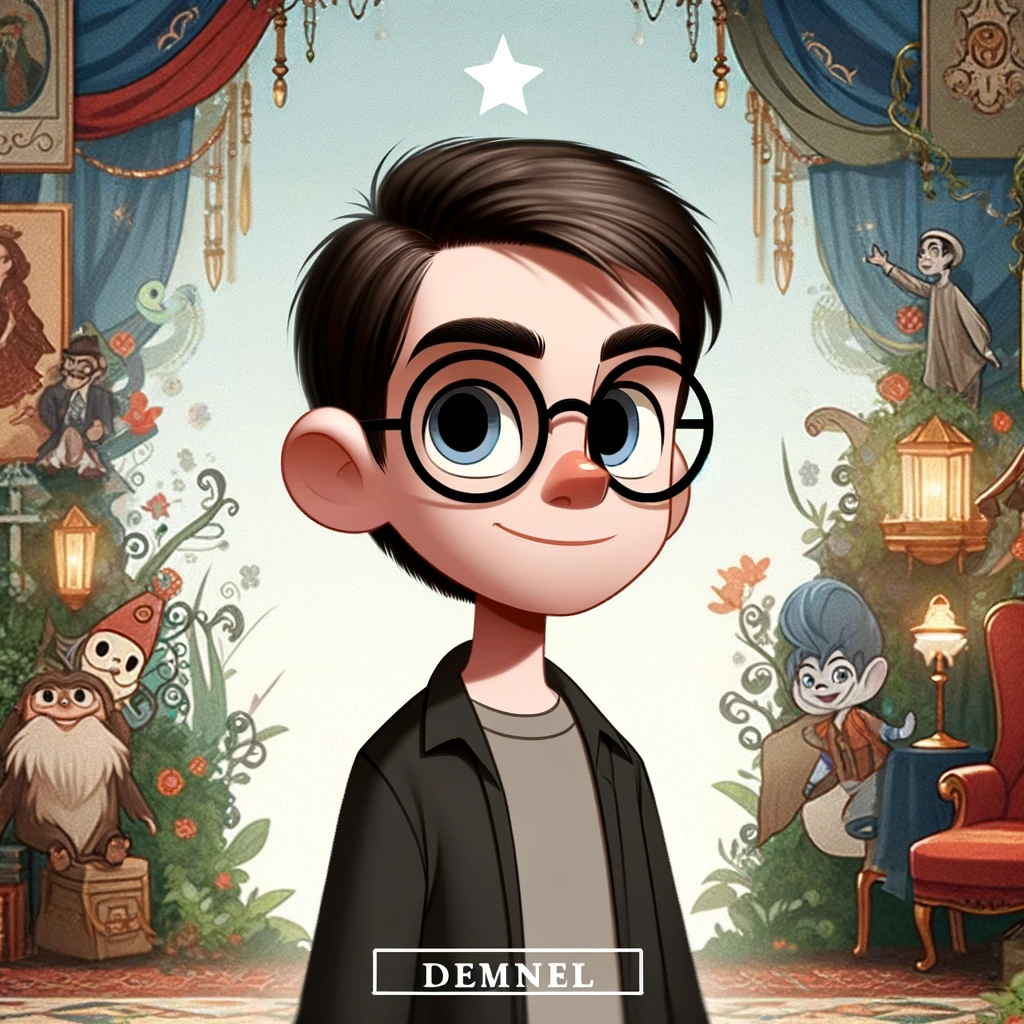
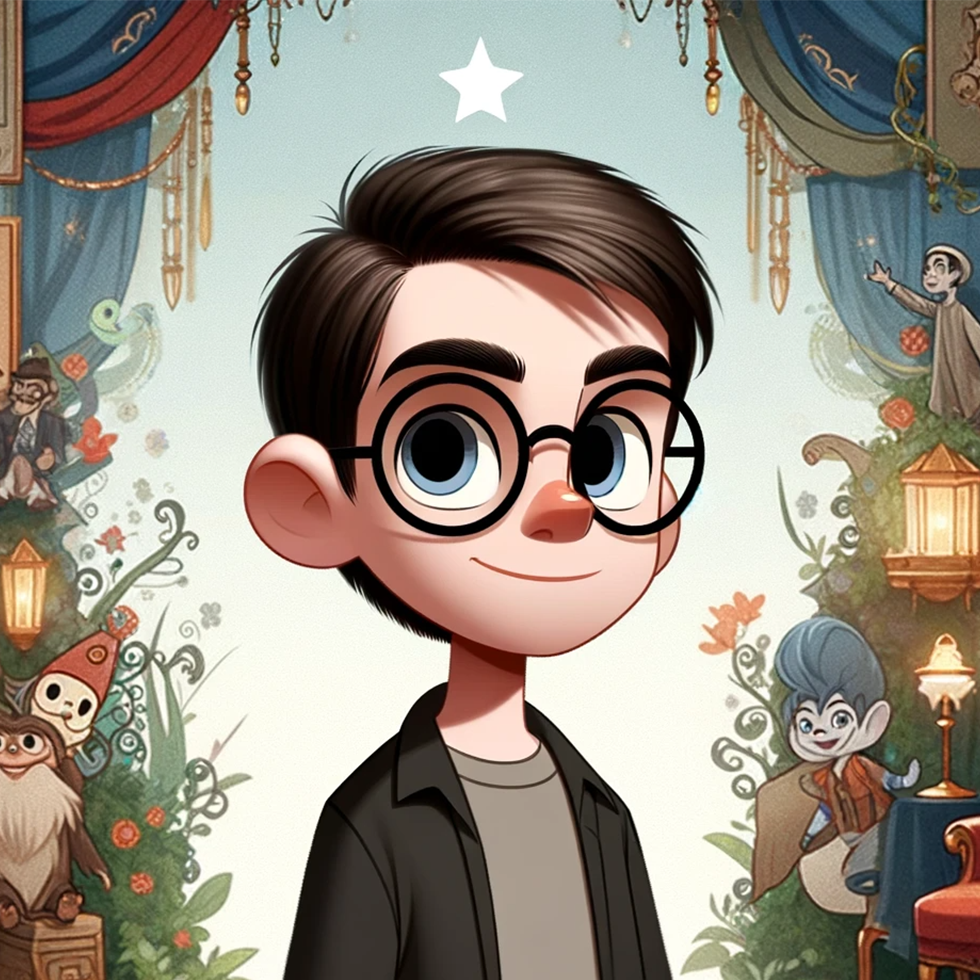
feat(image): add profile picture to about page

diff --git a/html/about.html b/html/about.html
@@ -66,27 +66,27 @@
             <!-- Three columns of text below the carousel -->
             <div class="row">
               <div class="col-lg-4">
-                <svg class="bd-placeholder-img rounded-circle" width="140" height="140" xmlns="http://www.w3.org/2000/svg" role="img" aria-label="Placeholder: 140x140" preserveAspectRatio="xMidYMid slice" focusable="false"><title>Placeholder</title><rect width="100%" height="100%" fill="#777"/><text x="50%" y="50%" fill="#777" dy=".3em">140x140</text></svg>
+                <img class="bd-placeholder-img rounded-circle" width="140" height="140" src="../images/profile_picture/leonardo.png" alt="">
                 <h2 class="fw-normal">Leonardo Alfontus Mende Sirait</h2>
                 <p>Some representative placeholder content for the three columns of text below the carousel. This is the first column.</p>
               </div><!-- /.col-lg-4 -->
               <div class="col-lg-4">
-                <svg class="bd-placeholder-img rounded-circle" width="140" height="140" xmlns="http://www.w3.org/2000/svg" role="img" aria-label="Placeholder: 140x140" preserveAspectRatio="xMidYMid slice" focusable="false"><title>Placeholder</title><rect width="100%" height="100%" fill="#777"/><text x="50%" y="50%" fill="#777" dy=".3em">140x140</text></svg>
+                <img class="bd-placeholder-img rounded-circle" width="140" height="140" src="../images/profile_picture/nasrul.png" alt="">
                 <h2 class="fw-normal">Nasrul Alfin Prasetyo</h2>
                 <p>Another exciting bit of representative placeholder content. This time, we've moved on to the second column.</p>
               </div><!-- /.col-lg-4 -->
               <div class="col-lg-4">
-                <svg class="bd-placeholder-img rounded-circle" width="140" height="140" xmlns="http://www.w3.org/2000/svg" role="img" aria-label="Placeholder: 140x140" preserveAspectRatio="xMidYMid slice" focusable="false"><title>Placeholder</title><rect width="100%" height="100%" fill="#777"/><text x="50%" y="50%" fill="#777" dy=".3em">140x140</text></svg>
+                <img class="bd-placeholder-img rounded-circle" width="140" height="140" src="../images/profile_picture/rayhan_square.png" alt="">
                 <h2 class="fw-normal">Rayhan Ahmad Rizalullah</h2>
                 <p>And lastly this, the third column of representative placeholder content.</p>
               </div><!-- /.col-lg-4 -->
               <div class="col-lg-4">
-                <svg class="bd-placeholder-img rounded-circle" width="140" height="140" xmlns="http://www.w3.org/2000/svg" role="img" aria-label="Placeholder: 140x140" preserveAspectRatio="xMidYMid slice" focusable="false"><title>Placeholder</title><rect width="100%" height="100%" fill="#777"/><text x="50%" y="50%" fill="#777" dy=".3em">140x140</text></svg>
+                <img class="bd-placeholder-img rounded-circle" width="140" height="140" src="../images/profile_picture/stefen.png" alt="">
                 <h2 class="fw-normal">Stefen Tjung</h2>
                 <p>And lastly this, the third column of representative placeholder content.</p>
               </div><!-- /.col-lg-4 -->
               <div class="col-lg-4">
-                <svg class="bd-placeholder-img rounded-circle" width="140" height="140" xmlns="http://www.w3.org/2000/svg" role="img" aria-label="Placeholder: 140x140" preserveAspectRatio="xMidYMid slice" focusable="false"><title>Placeholder</title><rect width="100%" height="100%" fill="#777"/><text x="50%" y="50%" fill="#777" dy=".3em">140x140</text></svg>
+                <img class="bd-placeholder-img rounded-circle" width="140" height="140" src="../images/profile_picture/qaessar.png" alt="">
                 <h2 class="fw-normal">Muhammad Qaessar Kartadilaga</h2>
                 <p>And lastly this, the third column of representative placeholder content.</p>
                 <!-- <p><a class="btn btn-secondary" href="#">View details &raquo;</a></p> -->

diff --git a/html/pengolahan-sampah.html b/html/pengolahan-sampah.html
@@ -134,10 +134,10 @@
                         <img src="./images/pengolahan_sampah/sampah_organik/sampah_organik1.jpg" class="d-block w-100" alt="...">
                       </div>
                       <div class="carousel-item">
-                        <img src="slogan.png" class="d-block w-100" alt="...">
+                        <img src="./images/pengolahan_sampah/sampah_organik/sampah_organik2.jpg" class="d-block w-100" alt="...">
                       </div>
                       <div class="carousel-item">
-                        <img src="pengolahan sampah.png" class="d-block w-100" alt="...">
+                        <img src="./images/pengolahan_sampah/sampah_organik/sampah_organik3.jpg" class="d-block w-100" alt="...">
                       </div>
                     </div>
                     <button class="carousel-control-prev" type="button" data-bs-target="#carouselExampleAutoplaying" data-bs-slide="prev">
